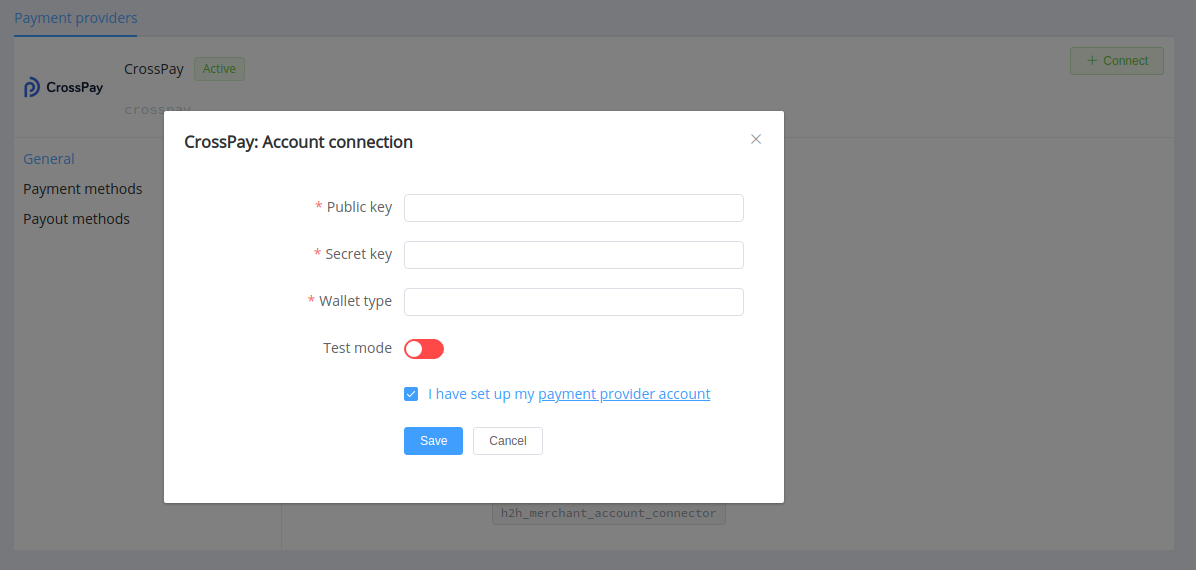
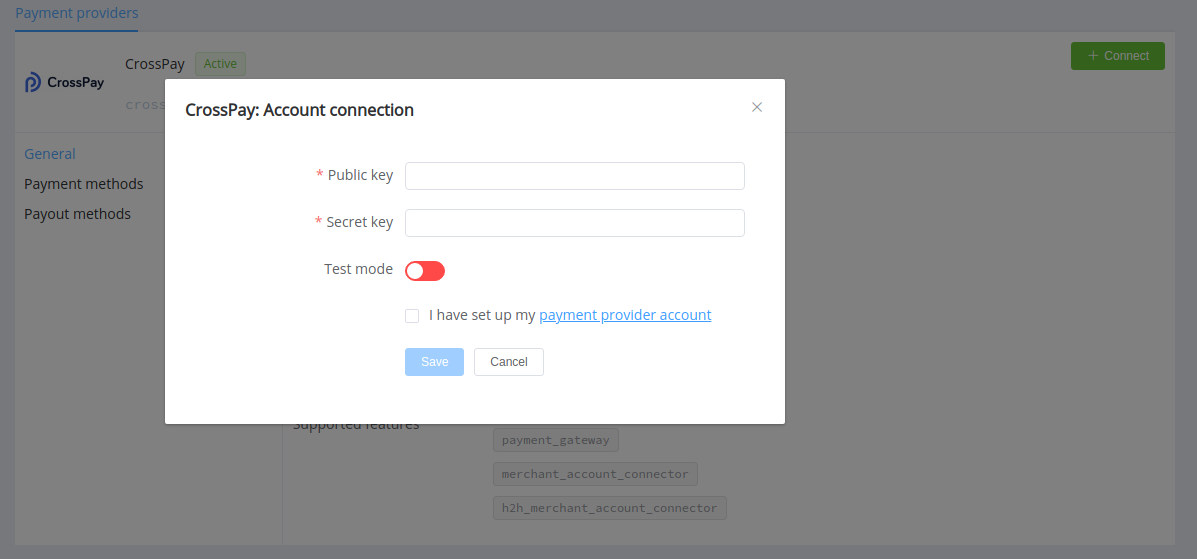
requested changes

diff --git a/docs/integration/payment-methods/google-pay.md b/docs/integration/payment-methods/google-pay.md
@@ -21,16 +21,15 @@ That's all! We integrate the Google Pay button to the Hosted Payment Page for yo
 
 ![Scheme](images/googlePay.png)
 
-1. You request the customer payment data from your application and create an invoice.
-2. You send the invoice request to PayCore.io, and we response with the HPP redirect form.
-3. You let the customer choose the payment method, including Google Pay option.
+1. You request the customer payment data from your application.
+2. You display available payment methods to the customer, including Google Pay option.
+3. You send the invoice request to [PayCore.io](http://paycore.io/), and we respond with the HPP redirect form.
 4. Google Pay authenticates the customer and returns the encrypted data.
-5. We decrypt payment data and create the purchase request.
-6. We transfer the card data to the payment service provider (PSP) or bank acquirer service to complete the transaction and obtain a payment response.
-7. We transfer the ACS data or transaction status (if the provider gets confirmation from the card issuer and let us skip the 3D-secure stage) with the enrollment response.
-8. In case two-factor authentication is required, the customer is redirected to the ACS page from the issuer, and we forwarded their entered data to the 3DS service with the Payment Authentication Request (PaReq).
-9. We get the PaRes (Payment Authentication Response) value received from the issuer 3DS service and transfer the payment response to your server.
-10. You inform the customer about the result.
+5. We decrypt payment data, create the purchase request and transfer the card data to the payment service provider (PSP) or bank acquirer service to complete the transaction and obtain a payment response.
+6. The acquirer can request an additional user verification step by passing a 3DS or OTP test; in that case, the customer gets the verification page from the issuer, and we forwarded their entered data to the 3DS service.
+7. We get the response value received from the issuer 3DS service and finalize the transaction.
+8. We send a Callback message; if the Callback URL is not set, we expect a status request from your server.
+9. You inform the customer about the result.
 
 ## Implementing Google Pay directly through the API
 
@@ -63,26 +62,48 @@ The overall transaction flow is similar to the standard Google Pay process. PayC
     2. Tokenization type:
         `tokenizationType: 'PAYMENT_GATEWAY'`
     3. Gateway parameter: `paycoreio`
-    4. gatewayMerchantId parameter --> your unique account ID
+    4. Your Google merchant ID 
+    5. And gateway merchant ID parameter --> your unique account ID
 
     ```json
     {
-        "type": "CARD",
-        "parameters": {
-            "allowedAuthMethods": [
-            "PAN_ONLY",
-            "CRYPTOGRAM_3DS"
-            ],
-            "allowedCardNetworks": [
-            "MASTERCARD",
-            "VISA"
-            ]
-        },
-        "tokenizationSpecification": {
-            "type": "PAYMENT_GATEWAY",
-            "parameters": {
-            "gateway": "paycoreio",
-            "gatewayMerchantId": "coma_eRb9pWCMbrCadlw0" //your unique commerce account identifier
+        "data":{
+            "id":"cgi_7U4hCiGtMAaGJnwN",
+            "attributes":{
+                "amount":10,
+                "currency":"USD",
+                "description":null,
+                "service":"googlepay",
+                "options":{},
+                "customer":{
+                    "reference_id": "customer1"
+                },
+                "repeatable":true,
+                "flow":"charge",
+                "status":"process_pending",
+                "resolution":"ok",
+                "active_request":{
+                    "status":"process_pending",
+                    "resolution":"ok"
+                },
+                "active_payment":{
+                    "status":"authorize_required",
+                    "resolution":"ok"
+                },
+                "auto_repay":false,
+                "metadata":{
+                    "fee":"0.00",
+                    "fee_strategy":"external"
+                },
+                "form_data":{
+                    "gateway":"paycoreio",
+                    "google_merchant_id":"014****68",
+                    "gateway_merchant_id":"coma_3****51"
+                }
+            },
+            "payment":{
+                "fee":"0.00",
+                "feeStrategy":"external"
             }
         }
     }
@@ -90,42 +111,49 @@ The overall transaction flow is similar to the standard Google Pay process. PayC
 
     If your integration works properly, you will receive a Google Pay button on the payment page. <img src="/integration/payment-methods/images/buy-buttons-black-small.png" alt="PayCore" style="width: 150px;">
 
-3. When a Google Pay transaction is initiated, a [Payment Token](https://developers.google.com/pay/api/web/reference/object#PaymentMethodTokenizationData) obtaining a JSON-formatted string will be sent to the merchant application.
+3. To initiate a Google Pay transaction, send request with the invoice ID and Google Pay gateway parameters and a JSON-formatted [Payment Token](https://developers.google.com/pay/api/web/reference/object#PaymentMethodTokenizationData).
 
-    !!! example "An example of Google Pay response"
-        ```json
+    !!! example "Request Sample"
+
+        ``` json
         {
-            "apiVersionMinor":0,
-            "apiVersion":2,
-            "paymentMethodData":{
-                "description":"Mastercard  •••• 0000",
-                "tokenizationData":{
-                    "type":"PAYMENT_GATEWAY",
[1 lines of base64/hex data omitted]
-                },
-                "type":"CARD",
-                "info":{
-                    "cardNetwork":"MASTERCARD",
-                    "cardDetails":"0004",
-                    "billingAddress":{
-                        "phoneNumber":"+1202 555 0137",
-                        "address3":"",
-                        "sortingCode":"",
-                        "address2":"",
-                        "countryCode":"US",
-                        "address1":"Pennsylvania Ave",
-                        "postalCode":"20500",
-                        "name":"Customer 1",
-                        "locality":"NW",
-                        "administrativeArea":"Washington, DC."
+            "data":{
+                "type":"process-payment-invoice",
+                "attributes":{
+                    "invoice_id":"cgi_7U4hCiGtMAaGJnwN",
+                    "auth":{
+                        "google_pay":{
+                            "apiVersionMinor":0,
+                            "apiVersion":2,
+                            "paymentMethodData":{
+                                "description":"Mastercard  •••• 1111",
+                                "tokenizationData":{
+                                    "type":"PAYMENT_GATEWAY",
+                                    "token":"{\"signature\":\"MEQCIBjQhjaZB76j...d"}"
+                                    },
+                                    "type":"CARD",
+                                    "info":{
+                                        "cardNetwork":"MASTERCARD",
+                                        "cardDetails":"1111"
+                                    }
+                                }
+                            }
+                        }
                     }
                 }
-            },
-            "email":"example-gmail@gmail.com"
-        }
-        ```
+            }
+            ```
+        
+        === "Response"
 
-4. The main part of response is `token` that allows you initiate verify or charge flow transferring it to the Google Pay. You can also use `google_pay` method in a separate flow from the start.
+            ``` json
+            
+
+
+            ```
+
+
+4. `token` allows you initiate verify or charge flow transferring it to the Google Pay.
 
     <!--
     There we have a place for Request and Response parameters' tables
@@ -133,7 +161,7 @@ The overall transaction flow is similar to the standard Google Pay process. PayC
 
 5. If payment status requires 3DS-verification, you should redirect the customer to the issuing bank ACS page (`action`). Send POST request including `PaReq`  (Payer Authentication Request), and `MD` (Merchant Data) parameters and Return URL to return the customer after 3D Secure (`TermUrl`) for 3ds 1.0 or `creq` (Challenge Request Message) for 3DS 2.0.
 
-    !!! example "JSON"
+    !!! example "Request samples"
 
         === "3DS 1.0"
 
@@ -145,8 +173,8 @@ The overall transaction flow is similar to the standard Google Pay process. PayC
                     "params":{
                         "MD":"999999999",
[1 lines of base64/hex data omitted]
-                        "TermUrl":"your.pay_domain/3ds-return?pid=pay_Hjh3kMlNdqE4WpOmNPCoIgFU_K1_nM"
-                        }
+                        "TermUrl":"your.pay_domain/\/complete-auth?pid=pay_gcRU0PhWvBCz2dabWNpLu1Q3_qK_ly"
+                    }
                 }
             }
             ```

diff --git a/docs/connectors/coinspaid/index.md b/docs/connectors/coinspaid/index.md
@@ -25,7 +25,7 @@ You should set up and activate your API key (or create a new one).
 
 You will receive your API secret – an access code for the API key that you’ve activated.  You’ll need to copy and save the key secret in a safe place because it is only displayed once and you won’t be able to see it again.
 
-Then you can set up Callbacks. You need to complete this step to receive callbacks from CoinsPaid.
+Then you can set up Callback URL: `https://psp-ext.paycore.io/coinspaid/callback`. You need to complete this step to receive callbacks from CoinsPaid.
 
 ![Settings](images/api-callbacks.png)
 

diff --git a/docs/connectors/crosspay/index.md b/docs/connectors/crosspay/index.md
@@ -21,7 +21,6 @@ Credentials that have to be issued:
 
 * Public Key
 * Secret Key
-* Wallet type
 
 ## Connect Provider Account
 
@@ -35,7 +34,6 @@ Enter credentials:
 
 * Public Key
 * Secret Key
-* type of Wallet
 
 Also, choose Test Mode for test connection with CrossPay.
 
